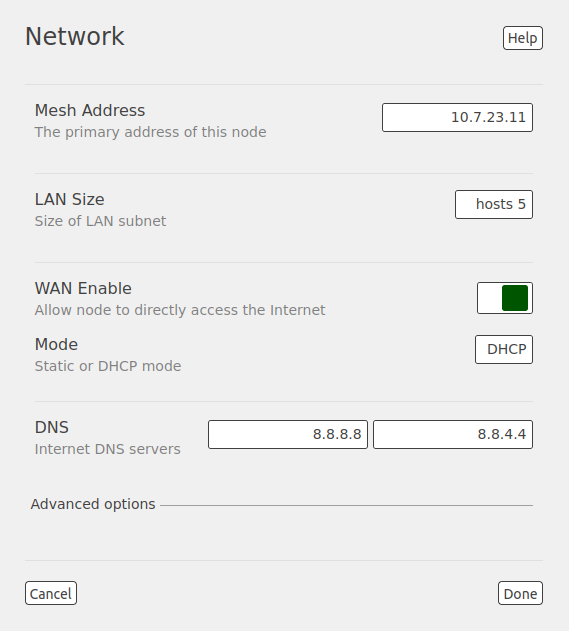
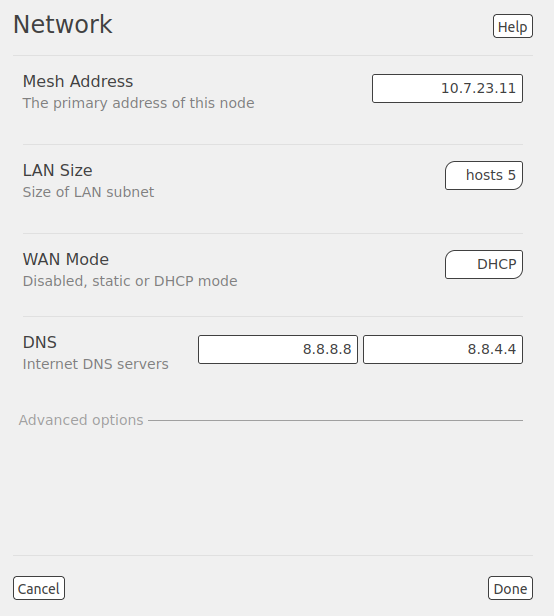
move wan enable-disable (#407)

diff --git a/arednGettingStarted/node_admin.rst b/arednGettingStarted/node_admin.rst
@@ -206,11 +206,8 @@ NAT Mode
 WAN
 +++
 
-WAN Enable
-  This switch allows you to enable or disable your node's WAN interface, which is typically used to connect to the Internet or some other external network. The WAN interface is ``enabled`` by default, and the *Mode* setting below will be displayed. If you ``disable`` the WAN interface, the *Mode* setting will not appear.
-
 WAN Mode
-  This specifies how your node's WAN interface gets its IP address. The default is to use :abbr:`DHCP (Dynamic Host Control Protocol)`, so the WAN IP address is assigned to your node by your Internet router. If you select ``Static`` you will see several new fields which allow you to specify the IP address, netmask in dotted decimal format, and gateway IP address.
+  This specifies whether your node's WAN interface is enabled, and if so, how it gets its IP address. The default is to use :abbr:`DHCP (Dynamic Host Control Protocol)`, so the WAN IP address is assigned to your node by your Internet router. If you select ``Static`` you will see several new fields which allow you to specify the IP address, netmask in dotted decimal format, and gateway IP address.
 
 DNS
   These two fields allow you to enter the IP addresses of the :abbr:`DNS (Domain Name System)` servers of your choice. By default Google's DNS servers are listed because their name resolution servers are configured to detect error conditions properly and to report them correctly.
